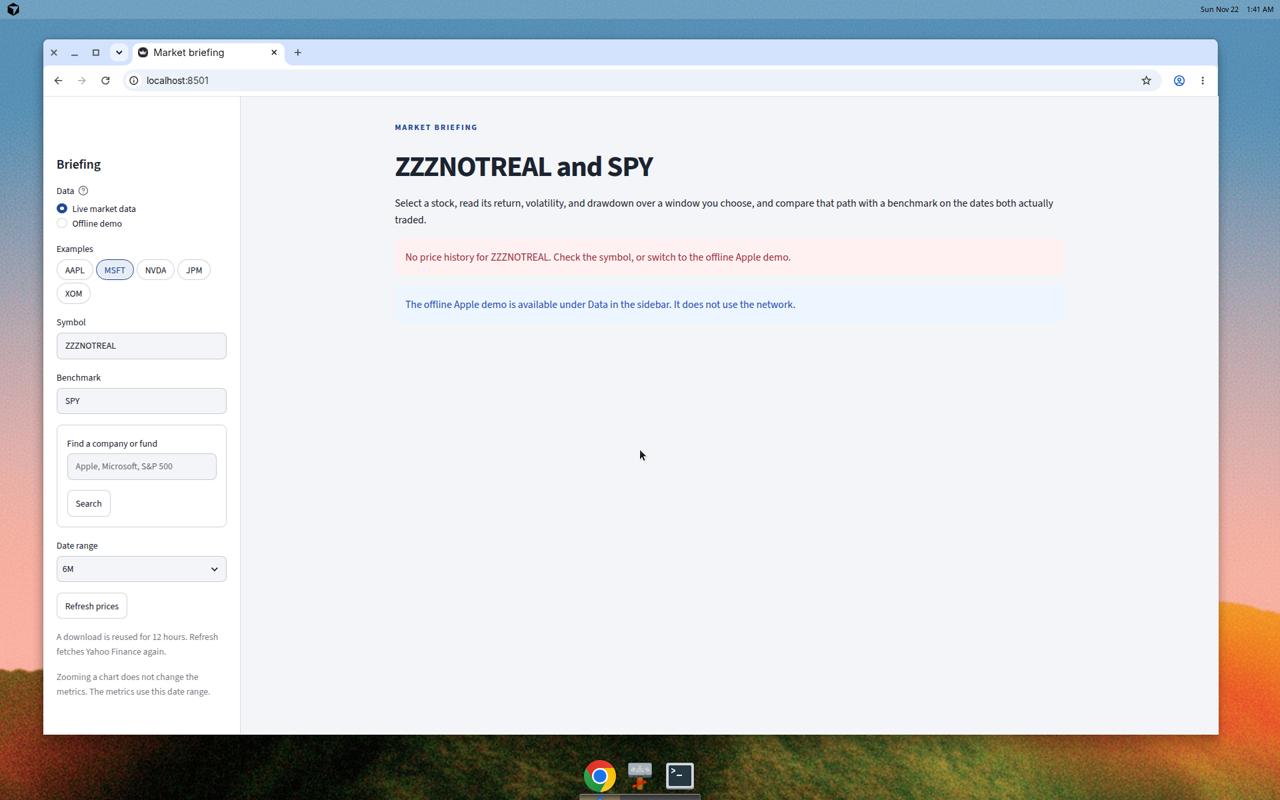
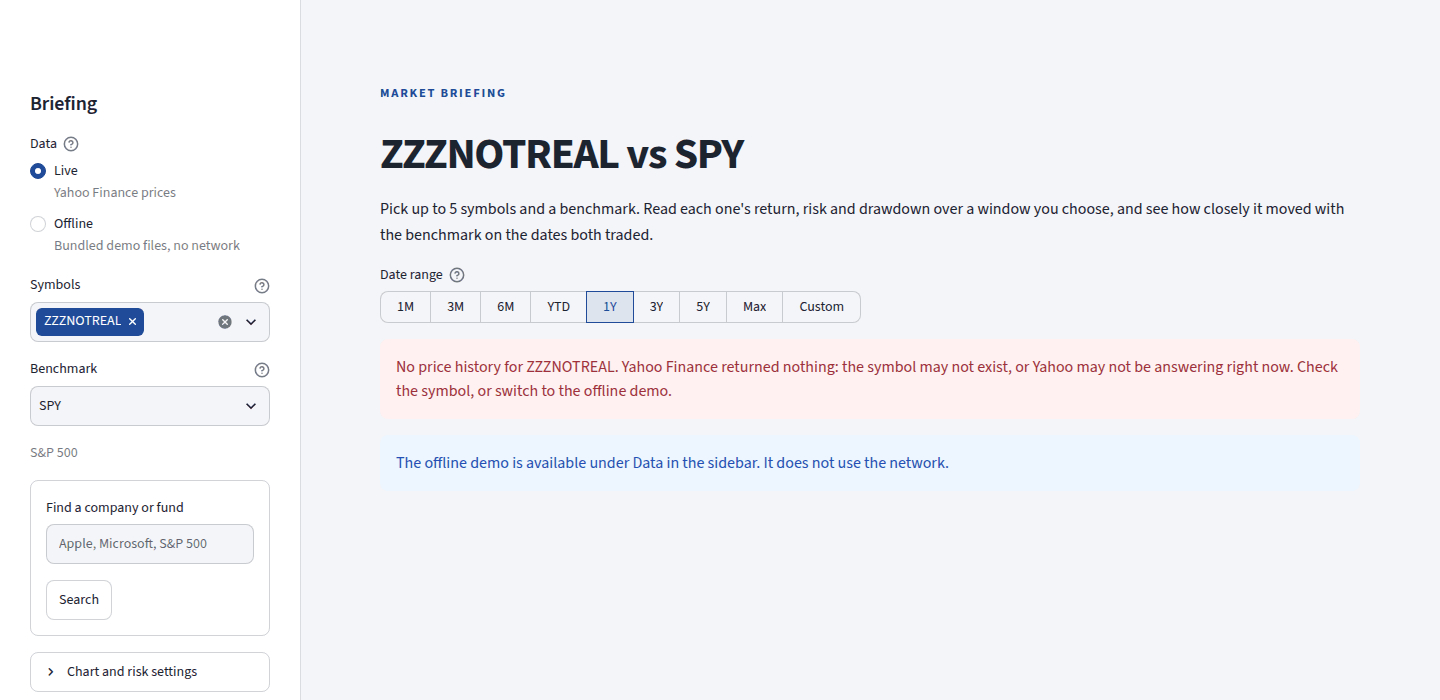
Document the comparison view, new metrics, link parameters and refreshed screenshots

diff --git a/features.py b/features.py
@@ -1077,9 +1077,10 @@ def _window_mismatch(rows: tuple[PeriodStats, ...], rebased: pd.DataFrame | None
     if not late:
         return ""
     listing = ", ".join(f"{stats.ticker} on {stats.window_start.date().isoformat()}" for stats in late)
+    rows_word = "that row covers" if len(late) == 1 else "those rows cover"
     text = (
-        f"Not every symbol covers the same dates: {listing} begins later than "
-        f"{earliest.date().isoformat()}, so that row covers a shorter window."
+        f"Not every symbol covers the same dates. The earliest starts on "
+        f"{earliest.date().isoformat()}; starting later: {listing}, so {rows_word} a shorter window."
     )
     if rebased is not None:
         text += (

diff --git a/tests/test_metrics.py b/tests/test_metrics.py
@@ -522,7 +522,7 @@ class ComparisonTests(unittest.TestCase):
         self.assertIn("BENCH, the benchmark, returned +2.9%", text)
         self.assertIn("1 of the 2 symbols finished ahead of it", text)
         self.assertIn("The deepest drawdown is LOSE's", text)
-        self.assertIn(f"LOSE on {self.dates[10].date().isoformat()} begins later", text)
+        self.assertIn(f"starting later: LOSE on {self.dates[10].date().isoformat()}, so that row covers", text)
         self.assertIn(f"The rebased chart starts on {self.dates[10].date().isoformat()}", text)
 
     def test_one_symbol_has_no_ranking_sentences(self) -> None:

diff --git a/README.md b/README.md
@@ -1,12 +1,25 @@
 # Market briefing
 
-A single-stock briefing you can show to a client. Pick a symbol, choose a window, and read the return, the risk, and the comparison with a benchmark. Every sentence on the page is filled from those calculations.
+A stock briefing you can show to a client. Pick up to five symbols and a benchmark, choose a window, and read each one's return, risk and drawdown, how closely it moved with the benchmark, and a plain-English summary. Every sentence on the page is filled from the calculations.
 
-Live prices come from Yahoo Finance through [yfinance](https://github.com/ranaroussi/yfinance). No API key. The bundled Apple file remains available as an explicit offline demo, with a saved SPY history for the same years.
+Live prices come from Yahoo Finance through [yfinance](https://github.com/ranaroussi/yfinance). No API key. An offline demo with bundled AAPL, MSFT, SPY and QQQ files is in the sidebar and is labelled as such.
 
-![AAPL versus SPY, one-year briefing](docs/screenshots/aapl_1y_overview.png)
+![AAPL, MSFT and NVDA against QQQ, one year](docs/screenshots/compare_overview.png)
 
-The numbers in the screenshots and the worked example below were produced on 22 Nov 2026, when the latest Yahoo bar was 20 Nov 2026. A later run prints new prices. The definitions do not change.
+The numbers in the screenshots and the worked examples below were produced on 22 Nov 2026, when the latest Yahoo bar was 20 Nov 2026. A later run prints new prices. The definitions do not change.
+
+## What it does
+
+| Feature | Where it came from |
+|---|---|
+| Compare up to five symbols on one chart, rebased to 100, with a benchmark you choose (SPY, QQQ, DIA, IWM, or any ticker you type) | TradingView's compare overlay on a shared percent scale, Yahoo Finance's chart comparison, Koyfin's comparison graph |
+| A side-by-side table: return, annualized return, volatility, drawdown, Sharpe, Sortino, beta, correlation, up and down capture | Portfolio Visualizer's risk and return metrics table |
+| Rolling 63-day beta and correlation | Portfolio Visualizer's rolling metrics. One number for the whole window hides how much the relationship moves |
+| Monthly returns heatmap and a daily return histogram | Portfolio Visualizer's monthly returns table; the histogram shows the tails that a volatility figure averages away |
+| Candlestick and volume view with moving averages you can resize, range buttons and a range slider | TradingView and Yahoo Finance charts |
+| A link that reproduces the view | TradingView and Koyfin saved views; finviz puts the whole screen in the URL |
+
+Left out on purpose: fundamentals and valuation, screeners, news, technical indicators beyond moving averages, and portfolio weights. They are the main business of the sites above, and none of them answers this page's question, which is how one stock behaved against a benchmark over a window.
 
 ## Setup
 
@@ -18,7 +31,7 @@ source .venv/bin/activate
 pip install -r requirements.txt
 ```
 
-Pinned packages: `numpy==2.5.5`, `pandas==3.1.1`, `streamlit==1.67.0`, `yfinance==0.2.66`, `plotly==6.3.1`.
+Pinned packages: `numpy==2.5.5`, `pandas==3.1.1`, `streamlit==1.67.0`, `yfinance==0.2.66`, `plotly==6.3.1`. This round added no packages.
 
 ## Worked example
 
@@ -28,78 +41,185 @@ Pinned packages: `numpy==2.5.5`, `pandas==3.1.1`, `streamlit==1.67.0`, `yfinance
 streamlit run app.py
 ```
 
-Leave **Live market data** selected. The page loads AAPL against SPY for the last year.
+The page opens on AAPL against SPY for the last year. In the sidebar, add MSFT and NVDA under **Symbols** (pick from the list or type any ticker and press Enter) and set **Benchmark** to QQQ. On 22 Nov 2026, for 20 Nov 2025 through 20 Nov 2026:
 
-On 22 Nov 2026 that window was 252 trading days, 20 Nov 2025 through 20 Nov 2026:
+| Symbol | Return | Annualized return | Volatility | Max drawdown | Sharpe | Sortino | Beta | Correlation | Up capture | Down capture | Vs benchmark (pp) | Sessions |
+|---|---:|---:|---:|---:|---:|---:|---:|---:|---:|---:|---:|---:|
+| AAPL | +29.1% | +29.1% | 25.0% | -13.8% | 1.15 | 1.69 | 0.26 | 0.23 | 29% | 8% | +24.7 | 252 |
+| MSFT | +2.1% | +2.1% | 33.7% | -28.0% | 0.23 | 0.36 | 0.55 | 0.36 | 61% | 58% | -2.3 | 252 |
+| NVDA | -30.3% | -30.4% | 41.6% | -47.5% | -0.67 | -0.89 | 1.28 | 0.69 | 116% | 144% | -34.7 | 252 |
+| QQQ (benchmark) | +4.4% | +4.4% | 22.4% | -19.9% | 0.30 | 0.41 | — | — | — | — | — | 252 |
 
-- Cumulative return **+29.1%** (adjusted close 265.33 to 342.56)
-- Annualized volatility **25.0%**, labeled **typical** because that figure sits at percentile rank 24.3 of AAPL's own rolling 21-day volatilities (quiet is 20 or below, elevated is 80 or above)
-- Maximum drawdown **−13.8%**, from 285.20 on 2 Dec 2025 to 245.84 on 20 Jan 2026
-- Versus SPY **+22.3 percentage points** (SPY returned +6.9% on the same 252 sessions)
+**In focus** chooses which symbol the ten cards, the single-symbol charts and the sentences describe. The table and the comparison chart always show all of them.
 
-The status line names the source (Yahoo Finance, auto-adjusted OHLC), the latest bar in the download, and the time that download was fetched. A cached file is reused for 12 hours. **Refresh prices** downloads again.
+The page is laid out top to bottom:
 
-Change the window to 6M and the same symbol prints a different result: **+13.5%** over 129 sessions, volatility 27.4%, drawdown −12.7%. Switching the symbol to MSFT, still on 6M, prints **+15.8%**, volatility 37.0% (percentile rank 76.2, still typical), drawdown −23.4% from 1 Jun 2026 to 25 Jun 2026, and SPY at −6.5% over those shared sessions.
+1. **Date range**: 1M, 3M, 6M, YTD, 1Y, 3Y, 5Y, Max, or **Custom** with a start and an end date.
+2. **Status**: the source, the latest bar and the fetch time for every symbol.
+3. **Cards**: cumulative return, annualized return, volatility, maximum drawdown, gap to the benchmark, Sharpe, Sortino, beta, correlation, volatility label. Each has a definition under its question mark.
+4. **Side by side**: the table above.
+5. **Charts**, in five tabs:
+   - **Compare**: every symbol rebased to 100 on the first session they all share. The benchmark is dashed.
+   - **Price**: adjusted close with two moving averages, as a line or as candles with volume.
+   - **Drawdown**: the stock's and the benchmark's decline from their running peaks.
+   - **Risk**: rolling 21-day volatility, and rolling 63-day beta and correlation.
+   - **Returns**: the daily return histogram over the benchmark's, and the monthly returns heatmap.
+6. **What the numbers say**: the sentences, and the definition of every figure and label.
+7. **Download analysis summary** (Markdown) and **Link to this view**.
 
-![AAPL and SPY rebased to 100](docs/screenshots/aapl_vs_spy_chart.png)
+![Candles, volume and resized averages](docs/screenshots/candlestick.png)
 
-![MSFT, six months](docs/screenshots/msft_6m.png)
+![Rolling volatility, beta and correlation](docs/screenshots/risk_rolling.png)
 
-An unknown symbol stops with a message and does not invent a chart:
+![Daily return histogram and monthly returns](docs/screenshots/returns_distribution.png)
 
-![Unknown symbol](docs/screenshots/invalid_ticker.png)
+![The sentences for the symbol in focus and across the symbols](docs/screenshots/explanation.png)
 
-**Download analysis summary** saves the same sentences and the definitions as Markdown.
+**Chart and risk settings** in the sidebar holds the two moving-average windows (2 to 400 days, the short one shorter than the long one) and the annual risk-free rate used by Sharpe and Sortino (0% to 20%, default 0%).
 
-The command-line form of the one-year AAPL briefing:
+### A custom range
+
+Choose **Custom** and set both dates. JPM and XOM against DIA, 2 Jan 2024 to 30 Jun 2025:
+
+| Symbol | Return | Annualized return | Volatility | Max drawdown | Sharpe | Sortino | Beta | Correlation | Up capture | Down capture | Vs benchmark (pp) | Sessions |
+|---|---:|---:|---:|---:|---:|---:|---:|---:|---:|---:|---:|---:|
+| JPM | +74.5% | +45.2% | 25.5% | -24.4% | 1.60 | 2.37 | 1.20 | 0.72 | 122% | 89% | +54.7 | 374 |
+| XOM | +10.9% | +7.2% | 22.4% | -18.9% | 0.43 | 0.58 | 0.63 | 0.43 | 58% | 56% | -8.9 | 374 |
+| DIA (benchmark) | +19.8% | +12.9% | 15.3% | -16.0% | 0.87 | 1.29 | — | — | — | — | — | 374 |
+
+![JPM and XOM against DIA over a custom range](docs/screenshots/custom_range.png)
+
+### Links
+
+Every control writes itself into the address bar, so the address is the view. A setting left at its default is omitted.
+
+| Parameter | Meaning | Default |
+|---|---|---|
+| `symbols` | One per symbol, repeated: `symbols=AAPL&symbols=MSFT` | `AAPL` |
+| `benchmark` | Benchmark ticker | `SPY` |
+| `range` | `1M` `3M` `6M` `YTD` `1Y` `3Y` `5Y` `Max` `Custom` | `1Y` |
+| `start`, `end` | `YYYY-MM-DD`, read when `range=Custom` | the last year |
+| `focus` | The symbol the cards and sentences describe | the first symbol |
+| `ma_short`, `ma_long` | Moving-average windows in days | `50`, `200` |
+| `rf` | Annual risk-free rate, in percent | `0` |
+| `tab` | `Compare` `Price` `Drawdown` `Risk` `Returns` | `Compare` |
+| `chart` | `Line` or `Candlestick` on the Price tab | `Line` |
+| `data` | `Live` or `Offline` | `Live` |
+
+The custom-range example above is `?symbols=JPM&symbols=XOM&benchmark=DIA&range=Custom&start=2024-01-02&end=2025-06-30`. A value the page cannot use, such as a symbol the offline demo does not have, is dropped and the default is used.
+
+### When something is wrong
+
+One unknown symbol among several is left out with a warning, and the rest of the briefing still renders:
+
+![One unknown symbol among two](docs/screenshots/partial_failure.png)
+
+When no symbol loads, the page stops with the reason and points to the offline demo. It does not draw an empty chart:
+
+![Only an unknown symbol](docs/screenshots/invalid_ticker.png)
+
+Other cases, each with its own message:
+
+- **A range with one trading day**: "AAPL has 1 trading day(s) between … A return needs two adjusted closes. Widen the range."
+- **A range too short for a figure**: that card shows a dash and its question mark says what it needs. Annualized return needs 360 calendar days, Sharpe, Sortino, beta and correlation need 20 daily returns, and each capture ratio needs 10 days on its side.
+- **Yahoo not answering**: a download that is older than 12 hours is used if one is on disk, and the page says the prices are from an older download and when it was fetched. With nothing on disk, the page shows the error and the offline demo is one click away.
+- **Benchmark unavailable**: the stock figures still show, and the benchmark cards show a dash.
+- **Moving averages in the wrong order**: "The short average (300 days) must be shorter than the long average (100 days)."
+- **The benchmark is also in the symbol list**: it is removed from the list with a note.
+
+### Command line
 
 ```bash
-python dashboard.py --ticker AAPL --benchmark SPY --preset 1Y
+python dashboard.py --tickers AAPL MSFT NVDA --benchmark QQQ --preset 1Y
 ```
 
 ```text
-AAPL adjusted close moved from 265.33 on 2025-11-20 to 342.56 on 2026-11-20: a cumulative return of +29.1% across 252 trading days.
+AAPL adjusted close moved from 265.33 on 2025-11-20 to 342.56 on 2026-11-20: a cumulative return of +29.1% across 252 trading days. Over 365 calendar days that compounds to +29.1% a year.
 Annualized volatility is 25.0%, from 251 daily log returns. The label is typical: this 25.0% sits at percentile rank 24.3 of the 11558 rolling 21-day volatilities in the loaded history. Quiet is 20% or below, elevated is 80% or above, and the rank between them is typical.
+The Sharpe ratio is 1.15 and the Sortino ratio is 1.69, at a risk-free rate of 0.0% a year. Both are positive because the average daily return was above that rate.
 Maximum drawdown is -13.8%, from a peak of 285.20 on 2025-12-02 to a trough of 245.84 on 2026-01-20.
+The best day was +5.3% on 2026-11-04 and the worst was -7.4% on 2026-07-31. 52% of the 251 daily moves were gains.
 On 2026-11-20 the close is above the 50-day average of 341.59. The close is above the 200-day average of 302.79.
-On the 252 shared sessions, AAPL returned +29.1% and SPY returned +6.9%. AAPL is 22.3 percentage points higher. Every session in the stock window has a benchmark print.
+On the 252 shared sessions, AAPL returned +29.1% and QQQ returned +4.4%. AAPL is 24.7 percentage points higher. Every session in the stock window has a benchmark print.
+Against QQQ, beta is 0.26 (low: zero to 0.80) and the correlation of daily returns is 0.23 (weak: size below 0.30), from 251 shared daily returns. A beta of 0.26 means AAPL moved about 0.26% on average, in the same direction, for each 1% move in QQQ.
+On the 133 days QQQ rose, AAPL's average daily return was 29% of QQQ's (up capture). On the 118 days QQQ fell, it was 8% (down capture).
+Ranked by cumulative return: AAPL +29.1%, MSFT +2.1%, NVDA -30.3%. QQQ, the benchmark, returned +4.4% over its own sessions in the range, and 1 of the 3 symbols finished ahead of it.
+Annualized volatility runs from 25.0% (AAPL) to 41.6% (NVDA).
+The deepest drawdown is NVDA's -47.5%; the shallowest is AAPL's -13.8%.
+Per unit of volatility, AAPL ranks first with a Sharpe ratio of 1.15 and NVDA last at -0.67, at a risk-free rate of 0.0% a year.
 Saved summary to analysis.md
 ```
 
-Other presets: `1M`, `3M`, `6M`, `YTD`, `1Y`, `3Y`, `5Y`, `Max`. Or pass both `--start` and `--end` as `YYYY-MM-DD`.
+Flags: `--ticker` or `--tickers` (up to five), `--benchmark`, `--focus`, `--preset` (`1M` `3M` `6M` `YTD` `1Y` `3Y` `5Y` `Max`) or both `--start` and `--end` as `YYYY-MM-DD`, `--ma-short`, `--ma-long`, `--risk-free` (percent a year), `--offline`, `--refresh`, `--output`.
 
 ### Offline demo
 
-In the sidebar choose **Offline demo**. Nothing is downloaded. The stock is `aapl_raw.csv` (plotly/datasets, using the `AAPL.Adjusted` column). The benchmark is `spy_sample.csv`, a Yahoo Finance auto-adjusted SPY history for Feb 2015–Feb 2017 saved in this repo on 22 Nov 2026.
+In the sidebar choose **Offline**. Nothing is downloaded, and the label above the title reads "Market briefing · offline demo". Four files are bundled:
+
+| Symbol | File | Source | Sessions |
+|---|---|---|---|
+| AAPL | `aapl_raw.csv` | plotly/datasets, using the `AAPL.Adjusted` column | 17 Feb 2015 – 16 Feb 2017 |
+| MSFT | `msft_sample.csv` | Yahoo Finance auto-adjusted bars saved on 22 Nov 2026 | 2 Feb 2015 – 17 Feb 2017 |
+| SPY | `spy_sample.csv` | Yahoo Finance auto-adjusted bars saved on 22 Nov 2026 | 2 Feb 2015 – 17 Feb 2017 |
+| QQQ | `qqq_sample.csv` | Yahoo Finance auto-adjusted bars saved on 22 Nov 2026 | 2 Feb 2015 – 17 Feb 2017 |
+
+AAPL and MSFT can be compared against SPY or QQQ. Any other symbol asks you to switch to live data.
 
 ```bash
-python dashboard.py --offline --preset Max
+python dashboard.py --offline --tickers AAPL MSFT --benchmark QQQ --preset Max
 ```
 
-```text
-AAPL adjusted close moved from 122.91 on 2015-02-17 to 135.35 on 2017-02-16: a cumulative return of +10.1% across 506 trading days.
-Annualized volatility is 24.3%, from 505 daily log returns. The label is typical: this 24.3% sits at percentile rank 60.8 of the 485 rolling 21-day volatilities in the loaded history.
-Maximum drawdown is -30.4%, from a peak of 127.97 on 2015-05-22 to a trough of 89.01 on 2016-05-12.
-On 2017-02-16 the close is above the 50-day average of 120.50. The close is above the 200-day average of 108.17.
-On the 506 shared sessions, AAPL returned +10.1% and SPY returned +16.5%. AAPL is 6.3 percentage points lower. Every session in the stock window has a benchmark print.
-```
+| Symbol | Return | Annualized return | Volatility | Max drawdown | Sharpe | Sortino | Beta | Correlation | Up capture | Down capture | Vs benchmark (pp) | Sessions |
+|---|---:|---:|---:|---:|---:|---:|---:|---:|---:|---:|---:|---:|
+| AAPL | +10.1% | +4.9% | 24.3% | -30.4% | 0.32 | 0.45 | 1.06 | 0.72 | 104% | 109% | -13.2 | 506 |
+| MSFT | +66.2% | +28.2% | 23.8% | -16.6% | 1.16 | 1.86 | 1.12 | 0.77 | 114% | 100% | +36.2 | 517 |
+| QQQ (benchmark) | +30.0% | +13.7% | 16.5% | -16.1% | 0.86 | 1.21 | — | — | — | — | — | 517 |
 
-![Offline Apple demo](docs/screenshots/offline_demo.png)
+AAPL's file starts ten sessions after the others and ends one session earlier. Its row covers its own 506 sessions, its gap of −13.2 points is measured on the sessions it shares with QQQ (QQQ returned +23.4% on those), and the page says so in a sentence.
 
-The offline demo only contains AAPL and SPY. Other symbols ask you to switch back to live data. A one-day window reports that a return needs two adjusted closes.
+![Offline demo, AAPL and MSFT against QQQ](docs/screenshots/offline_demo.png)
 
 ## How the figures are defined
 
+All figures use the adjusted close. The same text is on the page under **How every figure and label is defined**, written from the constants the code uses.
+
+**Return and risk**
+
 - **Cumulative return** is the adjusted close on the last session of the window divided by the adjusted close on the first session, minus one.
-- **Annualized volatility** is the sample standard deviation (divisor N−1) of daily log returns inside the window, multiplied by the square root of 252. Log return is the natural log of today's adjusted close over yesterday's. At least two daily returns are required.
-- **Maximum drawdown** is the deepest decline from a prior peak to a later close inside the window. The peak is the highest adjusted close on or before the trough. A window that never closes below a prior peak has a drawdown of zero.
-- **Moving averages** are simple averages of adjusted close, 50 days and 200 days. They are computed on the full loaded history and then drawn on the selected dates, so a 200-day average can appear inside a shorter window when earlier bars were loaded.
-- **Volatility label.** The window's annualized volatility is ranked against this symbol's rolling 21-day annualized volatilities on the **full loaded history**, not only inside the window. Quiet means a percentile rank of 20% or below. Elevated means 80% or above. A rank between those cuts is typical. The rank is the share of baseline windows strictly below the period volatility, plus half the share that tie. The label is withheld when fewer than 30 baseline windows exist. The page prints the rank next to the word, so the cut is visible.
-- **Benchmark gap.** Dates are an inner join: a session missing on either side is left out, not filled. Both series are adjusted closes. Each cumulative return runs from the first shared session to the last. The gap is the stock's cumulative return minus the benchmark's, in percentage points. It is not a regression alpha.
+- **Annualized return (CAGR)** is one plus the cumulative return, raised to 365.25 divided by the calendar days between the first and last session, minus one. It is withheld when the window spans fewer than 360 calendar days, because compounding a few months into a yearly rate reports a return nobody earned.
+- **Annualized volatility** is the sample standard deviation (divisor N−1) of daily log returns inside the window, multiplied by the square root of 252. At least two daily returns are required.
+- **Maximum drawdown** is the deepest decline from a prior peak to a later close inside the window. A window that never closes below a prior peak has a drawdown of zero.
+- **Best day, worst day** are the largest and smallest daily simple returns in the window. The share of gains is the fraction of daily returns above zero.
+- **Moving averages** are simple averages of adjusted close, 50 and 200 days unless changed. They are computed on the full loaded history and then drawn on the selected dates, so a 200-day average can appear inside a shorter window.
+- **Monthly returns** chain inside the window: each month's last adjusted close over the previous month's last, with the window's first close as the base of the first month. The first and last months can be partial. Compounded, the cells equal the cumulative return.
 
-Zooming a chart does not change the metrics. The metrics use the sidebar dates.
+**Return per unit of risk**
 
-Live OHLC from Yahoo is fetched with `auto_adjust=True`, so the stock and the benchmark are adjusted the same way. The analysis itself always reads the `adj_close` column.
+- **Sharpe ratio** is the mean daily simple return above the daily risk-free rate, divided by the sample standard deviation of those excess returns, multiplied by the square root of 252. The daily risk-free rate is (1 + annual rate)^(1/252) − 1.
+- **Sortino ratio** has the same numerator. Its denominator is the downside deviation: the square root of the mean squared shortfall below the risk-free rate, where days at or above the rate count as zero and every day is in the divisor.
+- Both need at least 20 daily returns. A window with no day below the rate has no Sortino ratio.
+
+**Against the benchmark**
+
+- **Benchmark gap.** Dates are an inner join: a session missing on either side is left out, not filled. Each cumulative return runs from the first shared session to the last. The gap is the stock's return minus the benchmark's, in percentage points. It is not a regression alpha.
+- **Beta** is the sample covariance of the stock's and the benchmark's daily simple returns on shared sessions, divided by the benchmark's sample variance. At least 20 shared daily returns.
+- **Correlation** is the Pearson correlation of the same pairs.
+- **Up capture** is the stock's mean daily return on the days the benchmark rose, divided by the benchmark's mean daily return on those days. **Down capture** is the same on the days it fell. Each side needs at least 10 days. This is a daily arithmetic version, not the monthly compounded figure fund fact sheets print.
+- **Rolling beta and correlation** use the trailing 63 shared daily returns, computed on the full loaded history and then shown on the selected dates.
+
+**Labels**
+
+| Label | Rule |
+|---|---|
+| Volatility: quiet / typical / elevated | The window's annualized volatility is ranked against this symbol's rolling 21-day annualized volatilities on the full loaded history. Quiet is a percentile rank of 20% or below, elevated is 80% or above, typical is between. Withheld under 30 baseline windows. The page prints the rank next to the word |
+| Beta: high / market-like / low / inverse | High at 1.20 or above, low from zero to 0.80, inverse below zero, market-like between 0.80 and 1.20 |
+| Correlation: strong / moderate / weak | Strong when its size is 0.70 or more, weak below 0.30, moderate between. A negative value is labelled negative |
+
+**Comparing several symbols.** Each row of the table uses that symbol's own sessions inside the range. The rebased chart starts every line at 100 on the first session all of them share. When one symbol starts later than the others, a sentence says which and from when.
+
+Zooming a chart, or pressing its range buttons, changes the view only. The figures use the range selected above the briefing.
+
+Live OHLC from Yahoo is fetched with `auto_adjust=True`, so every symbol is adjusted the same way. The candles are scaled by adjusted close over close so they line up with the averages.
 
 ## Tests
 
@@ -107,13 +227,18 @@ Live OHLC from Yahoo is fetched with `auto_adjust=True`, so the stock and the be
 python -m unittest discover -s tests -v
 ```
 
-`tests/test_calculations.py` checks hand-computed returns, the annualized-volatility formula, a known peak-to-trough drawdown (−25% from 120 to 90), moving-average warmup, date alignment without filling gaps, and that a jumpy window is labeled elevated against a calm history. `tests/test_pipeline.py` checks the bundled files, the offline briefing, a too-short window, the disk cache, and a live Yahoo fetch for AAPL, SPY, a Microsoft search, and an unknown symbol.
+96 tests.
+
+- `tests/test_calculations.py` (11): hand-computed returns, the annualized-volatility formula, a known peak-to-trough drawdown (−25% from 120 to 90), moving-average warmup, date alignment without filling gaps, and a jumpy window labelled elevated against a calm history.
+- `tests/test_metrics.py` (45): known answers for annualized return, the daily risk-free rate, Sharpe, downside deviation, Sortino, beta, correlation, up and down capture, best and worst day, rolling beta and correlation, monthly returns and their table, adjusted candles, rebasing and shared sessions, each label cut, and the settings limits. Edge cases: a part-year window, too few returns, a flat series, no losing days, a benchmark that never moved, too few up or down days, windows in the wrong order. One case builds a stock that moves exactly twice the benchmark each day and checks beta 2, correlation 1 and capture 200% through the whole pipeline.
+- `tests/test_pipeline.py` (23): the four bundled files, offline briefings, several symbols against a chosen benchmark, one bad symbol among several, every symbol bad, the benchmark listed as a symbol, more than five symbols, a symbol with no sessions in the range, settings passed through and rejected, the disk cache, an outage served from an expired download and an outage with nothing on disk, the command line, and live Yahoo fetches (skipped if Yahoo is unreachable).
+- `tests/test_app.py` (17): the page itself, driven headless with Streamlit's `AppTest`. The cards match the calculation, a link reproduces a multi-symbol view and the page writes the same link back, a custom range, a one-day range, changing the range, the focus and the benchmark, averages in the wrong order, a symbol the offline demo lacks, an empty symbol list, and live mode with the download stubbed: one unknown ticker, only unknown tickers, an outage, a missing benchmark.
 
 ## Layout
 
 ```
 data_loader.py   prices, search, 12-hour cache, bundled files
-features.py      returns, risk, averages, sentences
+features.py      returns, risk, ratios, benchmark relationship, comparison, sentences
 plots.py         Plotly charts
 dashboard.py     one briefing, command line, Markdown summary
 app.py           the page
@@ -123,13 +248,17 @@ app.py           the page
 
 ## Known limitations
 
-- The live path needs Yahoo Finance to answer. There is no key, and there is also no contract: if Yahoo changes or rate-limits the request, the page shows the error and the offline demo is still in the sidebar.
+- The live path needs Yahoo Finance to answer. There is no key, and there is also no contract. If Yahoo changes or rate-limits the request, the page falls back to an older download when one is on disk and otherwise shows the error. On Streamlit Community Cloud the disk is wiped when the app restarts, so that fallback only covers symbols loaded since the last restart.
 - yfinance 0.2.66 prints pandas deprecation warnings under pandas 3.1. The downloads used here still return adjusted history.
-- The volatility label is a rank inside one symbol's own history. A 25% year can be "typical" when older decades were wilder. Read the percentile next to the word. It is not a comparison with the VIX.
-- Offline AAPL is the 2017-vintage plotly file. Offline SPY was saved from Yahoo on 22 Nov 2026. Each comparison uses that file's own adjusted close and the chart rebases both to 100, so dollar levels are not overlaid. The two files were not adjusted on the same day.
-- The offline sample ends 16 Feb 2017.
-- One stock and one benchmark. No portfolio, no trades, no options.
-- The cache is a local `.cache/` directory, ignored by git, and it expires after 12 hours.
+- The risk-free rate is one number you set, 0% by default. It is not a Treasury bill series. Sharpe and Sortino at 0% are higher than a fact sheet's when rates are above zero.
+- Sharpe, Sortino, beta and capture are computed from daily returns. Portfolio Visualizer and fund fact sheets use monthly returns, so their figures for the same period will differ.
+- The volatility label is a rank inside one symbol's own history. A 25% year can be "typical" when older decades were wilder. Read the percentile next to the word.
+- The table gives each symbol its own sessions. A symbol that listed part-way through the range has a shorter row, and its return is not comparable with the others until the range is narrowed to dates they share. The page names the symbol and the date.
+- Rolling beta and correlation need 63 shared daily returns of history before the first point.
+- Five symbols at most, equal standing. No portfolio weights, no trades, no options, no fundamentals.
+- Offline AAPL is the 2017-vintage plotly file. The other three offline files were saved from Yahoo on 22 Nov 2026, so AAPL was not adjusted on the same day as its benchmark. The offline sample ends in Feb 2017.
+- With `range=Custom` left on the dates the page proposes, the address bar omits `start` and `end`, so that address would move with the calendar. **Link to this view** always writes the two dates out. That box does not carry `tab` or `chart`; the address bar does.
+- The cache is a local `.cache/` directory, ignored by git, reused for 12 hours.
 - Symbol search returns equities and ETFs. A blank or a symbol with spaces or punctuation is rejected before any download.
 
 ## Publish on Streamlit Community Cloud
@@ -142,4 +271,4 @@ No secret is required. The deployed app does need outbound HTTPS to Yahoo Financ
 4. Under **Advanced settings**, select **Python 3.12**. Leave secrets empty.
 5. Deploy. Community Cloud installs `requirements.txt` and runs `streamlit run app.py`.
 
-The public URL is the subdomain chosen in that form, of the shape `https://<name>.streamlit.app`.
+The public URL is the subdomain chosen in that form, of the shape `https://<name>.streamlit.app`. A push to the deployed branch redeploys the app.
